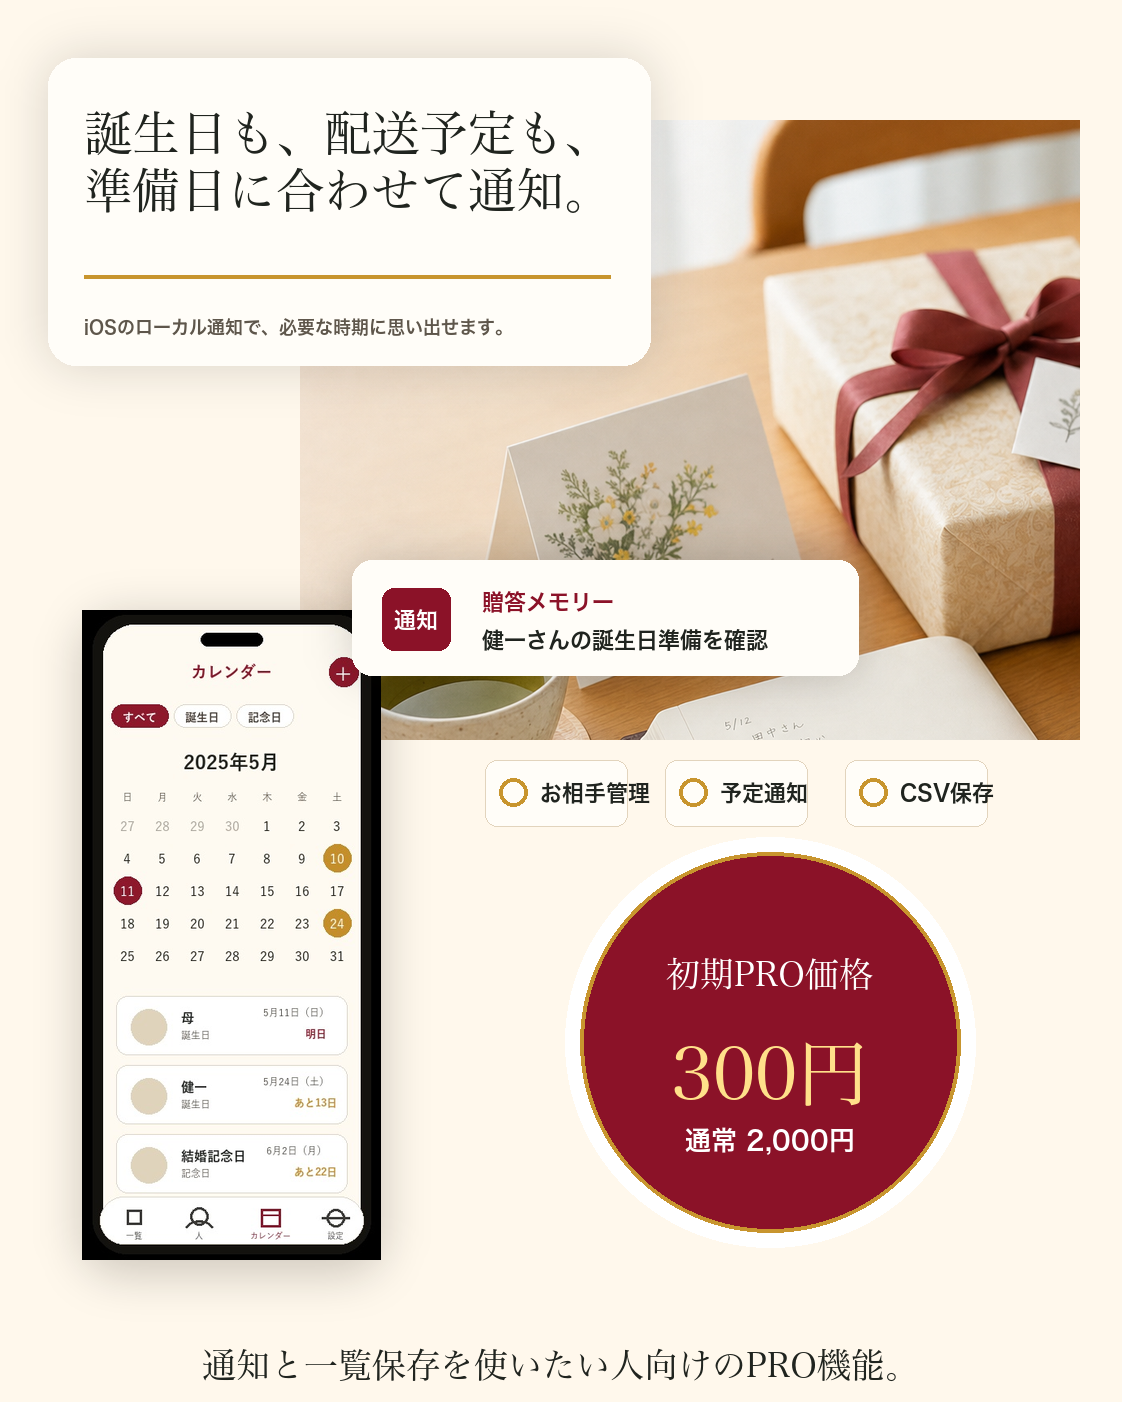
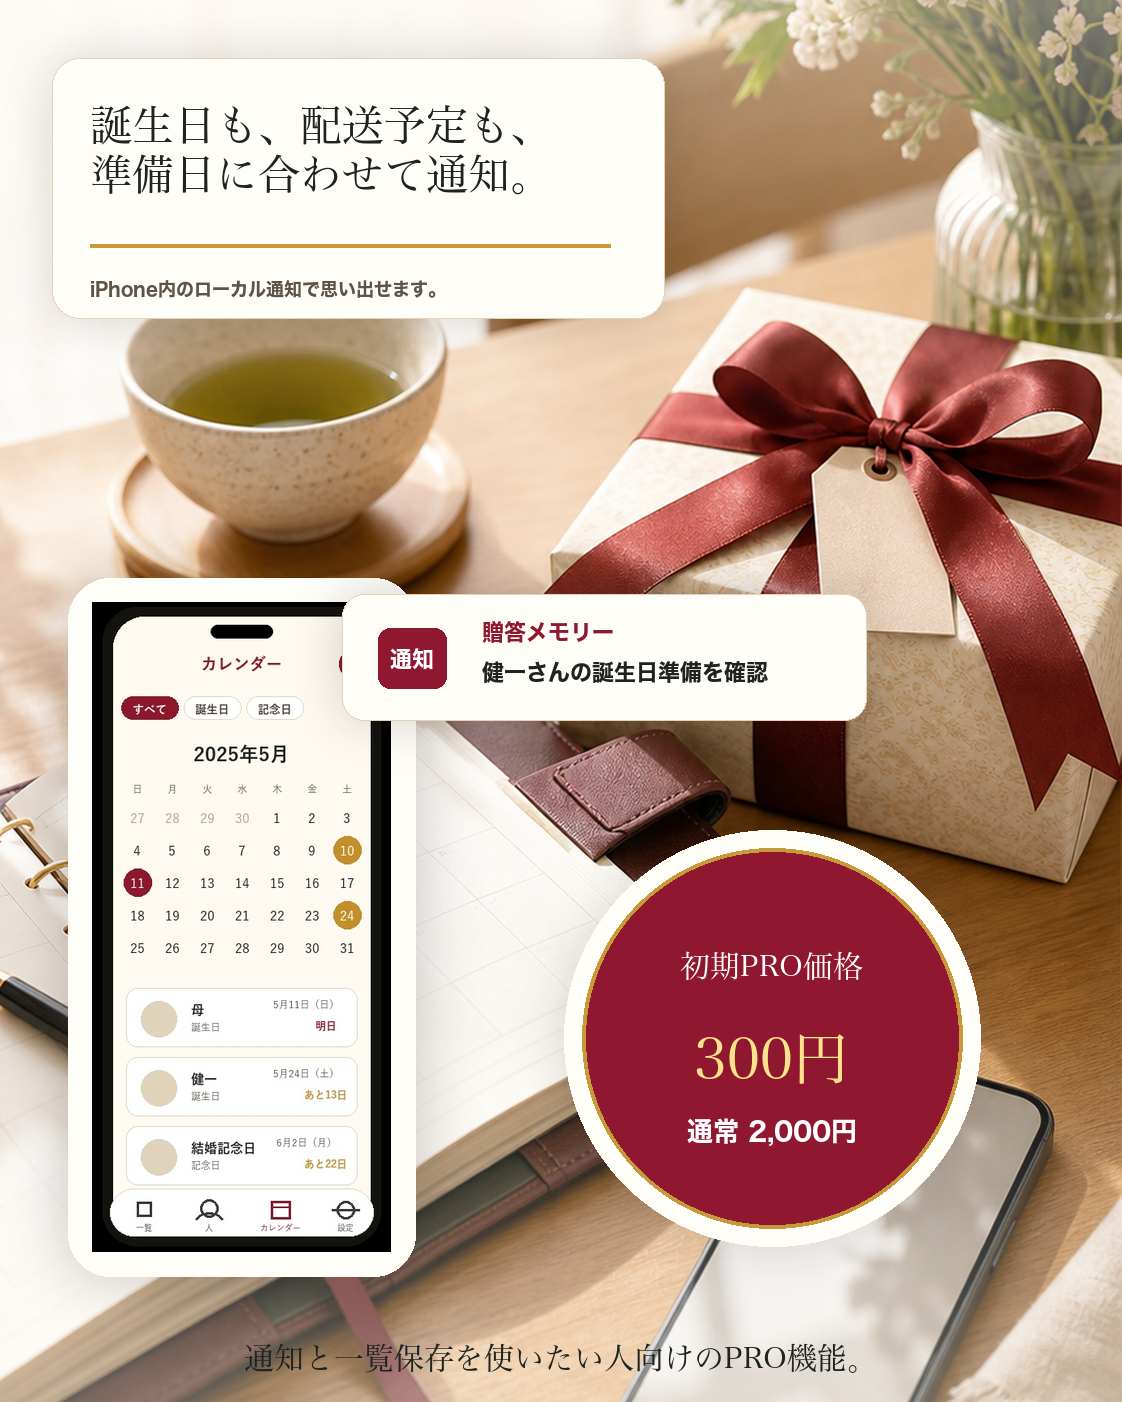
Regenerate LP imagery with gpt-image2

diff --git a/index.html b/index.html
@@ -884,17 +884,18 @@
       }
 
       .gallery-card.wide img {
-        width: min(100%, 360px);
-        margin: 16px auto 0;
+        width: 100%;
+        margin: 0;
         border: 1px solid rgba(224, 213, 195, .9);
-        border-radius: 28px;
-        box-shadow: 0 14px 34px rgba(55, 42, 26, .14);
+        border-width: 0 0 1px;
+        border-radius: 0;
+        box-shadow: none;
       }
 
       .hero .image-card picture img {
-        width: min(100%, 360px);
-        margin: 0 auto;
-        border-radius: 28px;
+        width: 100%;
+        margin: 0;
+        border-radius: 0;
         background: #fffaf0;
       }
 
@@ -970,7 +971,7 @@
         </div>
         <figure class="image-card">
           <picture>
-            <source media="(max-width: 640px)" srcset="assets/manual-record.jpg">
+            <source media="(max-width: 640px)" srcset="assets/usage-recording.png">
             <img src="assets/hero-flyer.png" alt="贈答メモリーの利用シーンとキャッチコピーを入れたメインビジュアル" width="1672" height="941">
           </picture>
           <figcaption>写真・お相手・日付・<span class="keep">リマインダー</span>を端末内で記録する、贈答メモリーの画面イメージ。</figcaption>
@@ -1126,7 +1127,6 @@
           </article>
           <article class="gallery-card wide card">
             <picture>
-              <source media="(max-width: 640px)" srcset="assets/manual-history.jpg">
               <img src="assets/ui-screens.png" alt="一覧、人、カレンダーで贈答履歴を管理するアプリ画面" width="1672" height="941">
             </picture>
             <div>
